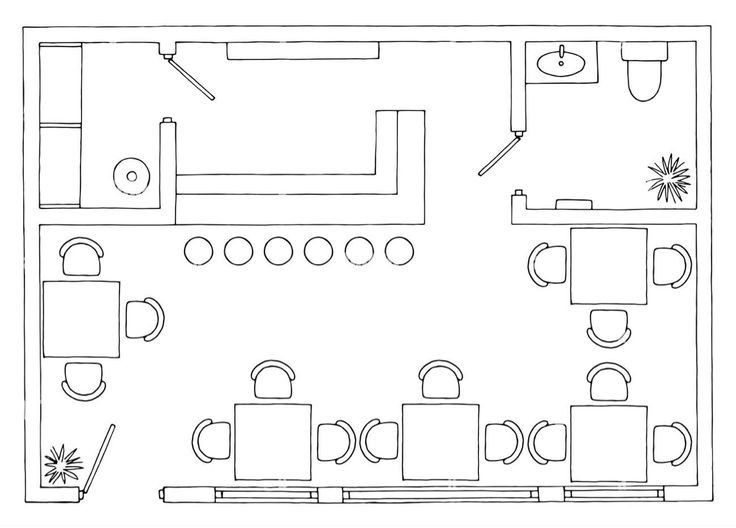
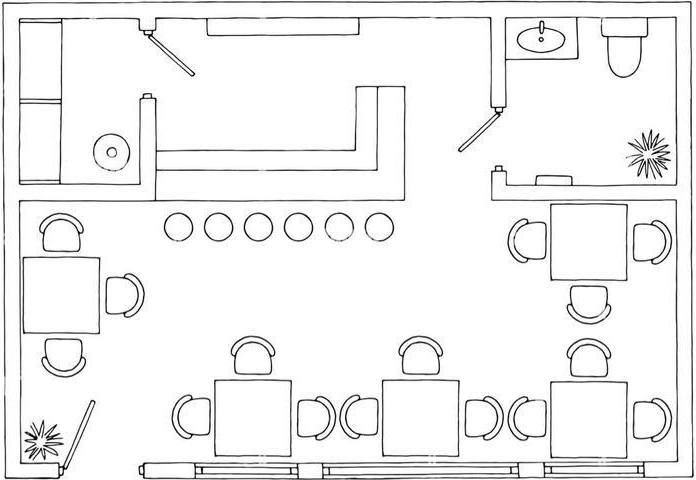
25/10/2025 10:12PM Tgnguyen0 them lop TableButton, them danh sau ban dang chon

Changed region(s): [[0.0, 0.0, 1.0, 1.0], [0.6336, 0.3125, 0.6638, 0.3438], [0.2716, 0.1562, 0.3017, 0.1875]]

diff --git a/src/app/GUI/CafeLayoutPage.java b/src/app/GUI/CafeLayoutPage.java
@@ -1,5 +1,6 @@
 package app.GUI;
 
+import app.Components.TableButton;
 import app.InitFont.CustomFont;
 import app.Listener.ActionListener_CafeLayoutPage;
 import com.formdev.flatlaf.FlatDarkLaf;
@@ -9,6 +10,7 @@ import org.kordamp.ikonli.swing.FontIcon;
 import javax.imageio.ImageIO;
 import javax.swing.*;
 import java.awt.*;
+import java.awt.event.ActionListener;
 import java.awt.image.BufferedImage;
 import java.awt.image.ImageObserver;
 import java.awt.image.ImageProducer;
@@ -18,10 +20,7 @@ public class CafeLayoutPage extends JFrame {
     private CustomFont customFont = new CustomFont();
     public ActionListener_CafeLayoutPage action;
     public JPanel buildingPanel;
-    public JLabel logoNameLabel;
-    public JButton groundFloorButton;
-    public JButton firstFloorButton;
-    public JButton secondFloorButton;
+    public JButton confirmedButton;
 
     public CafeLayoutPage() {
         //setSize(new Dimension(800, 600));
@@ -41,23 +40,41 @@ public class CafeLayoutPage extends JFrame {
 
         action = new ActionListener_CafeLayoutPage(this);
 
-        JPanel emptyNorth = new JPanel();
-        emptyNorth.setPreferredSize(new Dimension(100, 100));
-        emptyNorth.setOpaque(false);
-        add(emptyNorth, BorderLayout.NORTH);
+        JPanel labelPanel = new JPanel();
+        labelPanel.setPreferredSize(new Dimension(400, 50));
+        labelPanel.setBackground(Color.white);
+        add(labelPanel, BorderLayout.NORTH);
+
+        JLabel introLabel = new JLabel("Cafe Layout");
+        introLabel.setForeground(Color.black);
+        introLabel.setPreferredSize(new Dimension(1445, 40));
+        introLabel.setFont(customFont.getRobotoFonts().get(0).deriveFont(Font.PLAIN, 30));
+        introLabel.setVerticalAlignment(SwingConstants.CENTER);
+        introLabel.setHorizontalAlignment(SwingConstants.LEFT);
+        introLabel.setHorizontalTextPosition(SwingConstants.LEFT);
+        introLabel.setAlignmentX(Component.LEFT_ALIGNMENT);
+        labelPanel.add(introLabel);
 
         add(initGroundFloor(), BorderLayout.WEST);
-        JPanel panel = new JPanel();
-        panel.setLayout(new BoxLayout(panel, BoxLayout.Y_AXIS));
-        panel.setOpaque(false);
-//        panel.add(initFloorOption());
-        panel.add(initStatusPanel());
-        panel.add(initConfirmedPanel());
+        JPanel panel = new JPanel(new GridBagLayout());
+        panel.setBackground(Color.white);
+
+        GridBagConstraints gbc = new GridBagConstraints();
+        gbc.gridx = 0;
+        gbc.gridy = 0;
+        gbc.anchor = GridBagConstraints.CENTER;
+        gbc.insets = new Insets(0, 0, 30, 110);
+
+        panel.add(initStatusPanel(), gbc);
+
+        gbc.gridy++;
+        panel.add(initConfirmedPanel(), gbc);
+
         add(panel, BorderLayout.CENTER);
 
         JPanel emptySouth = new JPanel();
-        emptySouth.setPreferredSize(new Dimension(100, 100));
-        emptySouth.setOpaque(false);
+        emptySouth.setPreferredSize(new Dimension(100, 40));
+        emptySouth.setBackground(Color.white);
         add(emptySouth, BorderLayout.SOUTH);
     }
 
@@ -65,11 +82,12 @@ public class CafeLayoutPage extends JFrame {
         JPanel inforPanel = new JPanel();
         inforPanel.setLayout(new BoxLayout(inforPanel, BoxLayout.Y_AXIS));
         inforPanel.setBackground(Color.WHITE);
-        inforPanel.setBorder(BorderFactory.createEmptyBorder(10, 10, 10, 10));
 
         inforPanel.add(createStatusRow(Color.RED, "Table is not available"));
-        inforPanel.add(Box.createVerticalStrut(10));
+        inforPanel.add(Box.createVerticalStrut(20));
         inforPanel.add(createStatusRow(Color.WHITE, "Table is available"));
+        inforPanel.add(Box.createVerticalStrut(20));
+        inforPanel.add(createStatusRow(Color.ORANGE, "Your choosen table"));
 
         return inforPanel;
     }
@@ -94,14 +112,19 @@ public class CafeLayoutPage extends JFrame {
     }
 
     private JPanel initGroundFloor() {
+        JPanel holdPanel = new JPanel();
+        holdPanel.setLayout(new FlowLayout(FlowLayout.CENTER));
+        holdPanel.setPreferredSize(new Dimension(1125, (int) (528 * 1.3)));
+        holdPanel.setBackground(Color.white);
+
         JPanel groundFloor = new JPanel() {
             private Image backgroundImage;
 
             {
                 try {
                     BufferedImage icon = ImageIO.read(new File("asset/layout/ground-floor.png"));
-                    int iconWitdh = (int) (736 * 1.35);
-                    int iconHeight = (int) (528 * 1.35);
+                    int iconWitdh = (int) (736 * 1.4);
+                    int iconHeight = (int) (528 * 1.4);
                     backgroundImage = icon.getScaledInstance(iconWitdh, iconHeight, Image.SCALE_SMOOTH);
                 } catch (Exception e) {
                     e.printStackTrace();
@@ -119,55 +142,81 @@ public class CafeLayoutPage extends JFrame {
             }
         };
         groundFloor.setOpaque(false);
-
-        groundFloor.setLayout(null); // Cho phép bạn đặt ghế, bàn tự do theo toạ độ
-        groundFloor.setPreferredSize(new Dimension((int) (736 * 1.25), (int) (528 * 1.25)));
+        groundFloor.setLayout(null);
+        groundFloor.setPreferredSize(new Dimension((int) (736 * 1.4), (int) (528 * 1.4)));
         groundFloor.setOpaque(false);
+        holdPanel.add(groundFloor);
 
-        JButton ban1 = new JButton("1");
-        ban1.setBounds(328, 390, 105, 105);
+        TableButton ban1 = new TableButton(
+                "1",
+                32, 396, 118, 118,
+                customFont.getRobotoFonts().get(0).deriveFont(Font.PLAIN, 15),
+                Color.white,
+                Color.BLACK
+        );
         groundFloor.add(ban1);
 
-        JButton ban2 = new JButton("2");
-        ban2.setBounds(1040, 318, 105, 105);
+        TableButton ban2 = new TableButton(
+                "2",
+                811, 314, 118, 118,
+                customFont.getRobotoFonts().get(0).deriveFont(Font.PLAIN, 15),
+                Color.white,
+                Color.BLACK
+        );
         groundFloor.add(ban2);
 
-        JButton ban3 = new JButton("3");
-        ban3.setBounds(1040, 318, 105, 105);
+        TableButton ban3 = new TableButton(
+                "3",
+                811, 588, 118, 118,
+                customFont.getRobotoFonts().get(0).deriveFont(Font.PLAIN, 15),
+                Color.white,
+                Color.BLACK
+        );
         groundFloor.add(ban3);
 
-        JButton ban4 = new JButton("4");
-        ban4.setBounds(1040, 318, 105, 105);
+        TableButton ban4 = new TableButton(
+                "4",
+                564, 586, 118, 118,
+                customFont.getRobotoFonts().get(0).deriveFont(Font.PLAIN, 15),
+                Color.white,
+                Color.BLACK
+        );
         groundFloor.add(ban4);
 
-        JButton ban5 = new JButton("5");
-        ban5.setBounds(1040, 318, 105, 105);
+        TableButton ban5 = new TableButton(
+                "5",
+                316, 586, 118, 118,
+                customFont.getRobotoFonts().get(0).deriveFont(Font.PLAIN, 15),
+                Color.white,
+                Color.BLACK
+        );
         groundFloor.add(ban5);
 
-        return groundFloor;
+        return holdPanel;
     }
 
     private JPanel initConfirmedPanel() {
         JPanel confirmedPanel = new JPanel();
         confirmedPanel.setOpaque(false);
 
-        JButton confirmedButton = new JButton("Confirmed Chosen Table");
+        confirmedButton = new JButton("Confirmed Chosen Table");
         confirmedButton.setBackground(Color.white);
         confirmedButton.setForeground(Color.black);
         confirmedButton.setPreferredSize(new Dimension(240, 60));
         confirmedButton.setMaximumSize(new Dimension(240, 60));
         confirmedButton.setBorder(BorderFactory.createLineBorder(Color.black));
         confirmedButton.setFont(customFont.getRobotoFonts().get(0).deriveFont(Font.PLAIN, 14));
+        confirmedButton.addActionListener(action);
         confirmedPanel.add(confirmedButton);
 
         return confirmedPanel;
     }
 
-    public static void main(String[] args) {
-        SwingUtilities.invokeLater(() -> {
-            // Mongo.getConnection();
-            CafeLayoutPage layout = new CafeLayoutPage();
-            layout.setVisible(true);
-        });
-    }
+//    public static void main(String[] args) {
+//        SwingUtilities.invokeLater(() -> {
+//            // Mongo.getConnection();
+//            CafeLayoutPage layout = new CafeLayoutPage();
+//            layout.setVisible(true);
+//        });
+//    }
 }

diff --git a/src/app/Listener/ActionListener_CafeLayoutPage.java b/src/app/Listener/ActionListener_CafeLayoutPage.java
@@ -15,20 +15,10 @@ public class ActionListener_CafeLayoutPage implements ActionListener {
 
     @Override
     public void actionPerformed(ActionEvent e) {
-        CardLayout cardLayout = (CardLayout) layoutPage.buildingPanel.getLayout();
-        String command = e.getActionCommand();
         Object o = e.getSource();
 
-        switch (command) {
-            case "Tầng trệt":
-                cardLayout.show(layoutPage.buildingPanel, "Ground Floor");
-                break;
-            case "Tầng một":
-                cardLayout.show(layoutPage.buildingPanel, "First Floor");
-                break;
-            case "Tầng hai":
-                cardLayout.show(layoutPage.buildingPanel, "Second Floor");
-                break;
+        if (o.equals(layoutPage.confirmedButton)) {
+            layoutPage.dispose();
         }
     }
 }

diff --git a/src/app/GUI/ReceiptPage.java b/src/app/GUI/ReceiptPage.java
@@ -1,24 +1,19 @@
 package app.GUI;
 
-import app.AppFunctions.Collection_Member;
+import app.Collections.Collection_Member;
 import app.Components.CustomTableCellRenderer;
 import app.Components.CustomTableHeaderRenderer;
 import app.InitFont.CustomFont;
-import app.AppFunctions.Collection_BillDetails;
+import app.Collections.Collection_BillDetails;
 
 import java.awt.BorderLayout;
 import java.awt.Color;
 import java.awt.Dimension;
 import java.awt.FlowLayout;
 import java.awt.Font;
-import java.awt.Image;
-import java.io.File;
-import java.io.IOException;
 
-import javax.imageio.ImageIO;
 import javax.swing.BorderFactory;
 import javax.swing.DefaultCellEditor;
-import javax.swing.ImageIcon;
 import javax.swing.JButton;
 import javax.swing.JComboBox;
 import javax.swing.JLabel;

diff --git a/src/app/Components/TableButton.java b/src/app/Components/TableButton.java
@@ -1,0 +1,16 @@
+package app.Components;
+
+import javax.swing.*;
+import java.awt.*;
+
+public class TableButton extends JButton {
+    public TableButton(String text, int cordX, int cordY, int width, int height, Font font, Color backgroundColor, Color foregroundColor) {
+        setText(text);
+        setBounds(cordX, cordY, width, height);
+        setFont(font);
+        setBackground(backgroundColor);
+        setForeground(foregroundColor);
+        setBorderPainted(true);
+        setFocusPainted(false);
+    }
+}

diff --git a/src/app/GUI/EmployeePage.java b/src/app/GUI/EmployeePage.java
@@ -34,7 +34,7 @@ import javax.swing.table.JTableHeader;
 import org.kordamp.ikonli.feather.Feather;
 import org.kordamp.ikonli.swing.FontIcon;
 
-import app.AppFunctions.Collection_Employee;
+import app.Collections.Collection_Employee;
 import app.Components.CustomTableCellRenderer;
 import app.Components.CustomTableHeaderRenderer;
 import app.InitFont.CustomFont;

diff --git a/src/app/GUI/ProductPage.java b/src/app/GUI/ProductPage.java
@@ -33,7 +33,7 @@ import javax.swing.table.JTableHeader;
 import org.kordamp.ikonli.feather.Feather;
 import org.kordamp.ikonli.swing.FontIcon;
 
-import app.AppFunctions.Collection_MenuItem;
+import app.Collections.Collection_MenuItem;
 import app.Components.CustomTableCellRenderer;
 import app.Components.CustomTableHeaderRenderer;
 import app.InitFont.CustomFont;

diff --git a/src/app/GUI/PromotionPage.java b/src/app/GUI/PromotionPage.java
@@ -33,7 +33,7 @@ import javax.swing.table.JTableHeader;
 import org.kordamp.ikonli.feather.Feather;
 import org.kordamp.ikonli.swing.FontIcon;
 
-import app.AppFunctions.Collection_Member;
+import app.Collections.Collection_Member;
 import app.Components.CustomTableCellRenderer;
 import app.Components.CustomTableHeaderRenderer;
 import app.InitFont.CustomFont;

diff --git a/src/app/Collections/Collection_BillDetails.java b/src/app/Collections/Collection_BillDetails.java
@@ -1,4 +1,4 @@
-package app.AppFunctions;
+package app.Collections;
 
 import app.Object.BillDetail;
 

diff --git a/src/app/Collections/Collection_Employee.java b/src/app/Collections/Collection_Employee.java
@@ -1,4 +1,4 @@
-package app.AppFunctions;
+package app.Collections;
 
 import app.Object.Employee;
 

diff --git a/src/app/Collections/Collection_Member.java b/src/app/Collections/Collection_Member.java
@@ -1,4 +1,4 @@
-package app.AppFunctions;
+package app.Collections;
 
 import app.Object.Customer;
 

diff --git a/src/app/Collections/Collection_MenuItem.java b/src/app/Collections/Collection_MenuItem.java
@@ -1,4 +1,4 @@
-package app.AppFunctions;
+package app.Collections;
 
 import app.Object.MenuItem;
 
